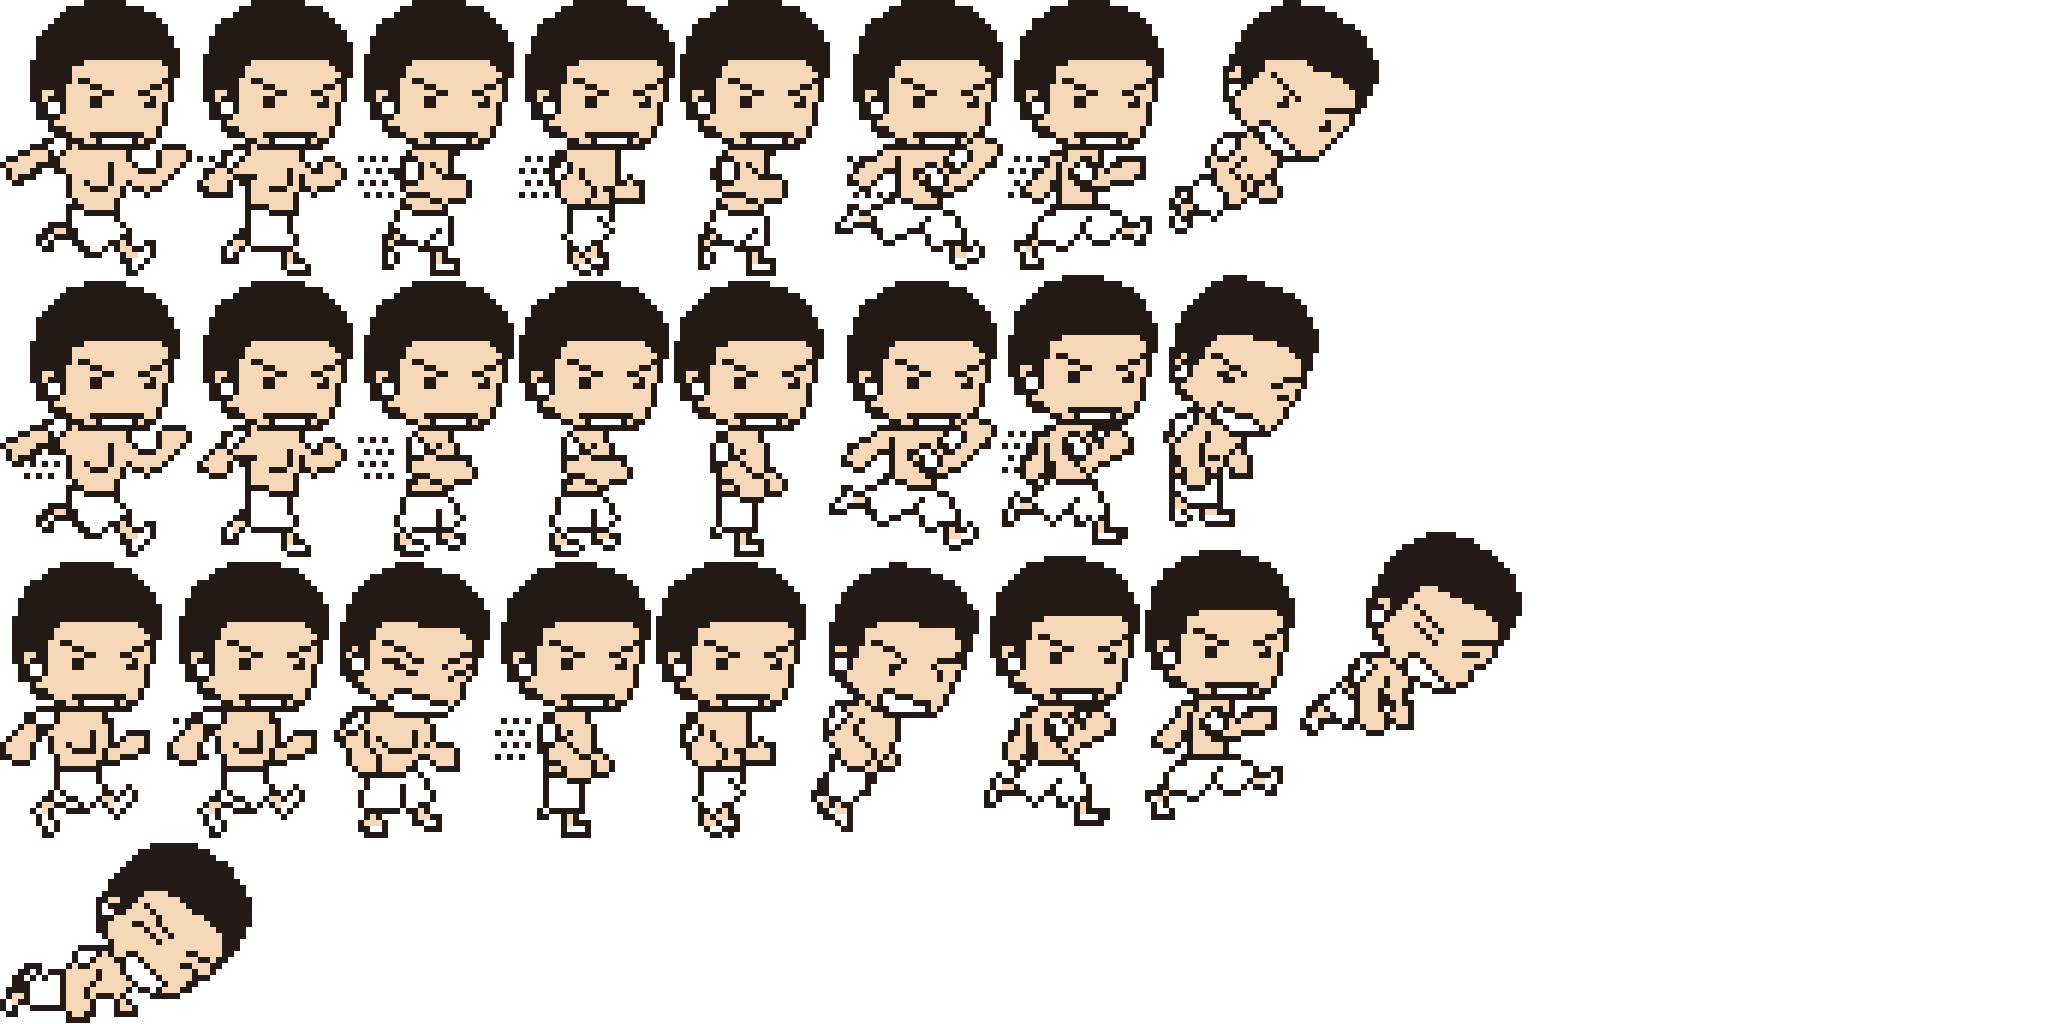
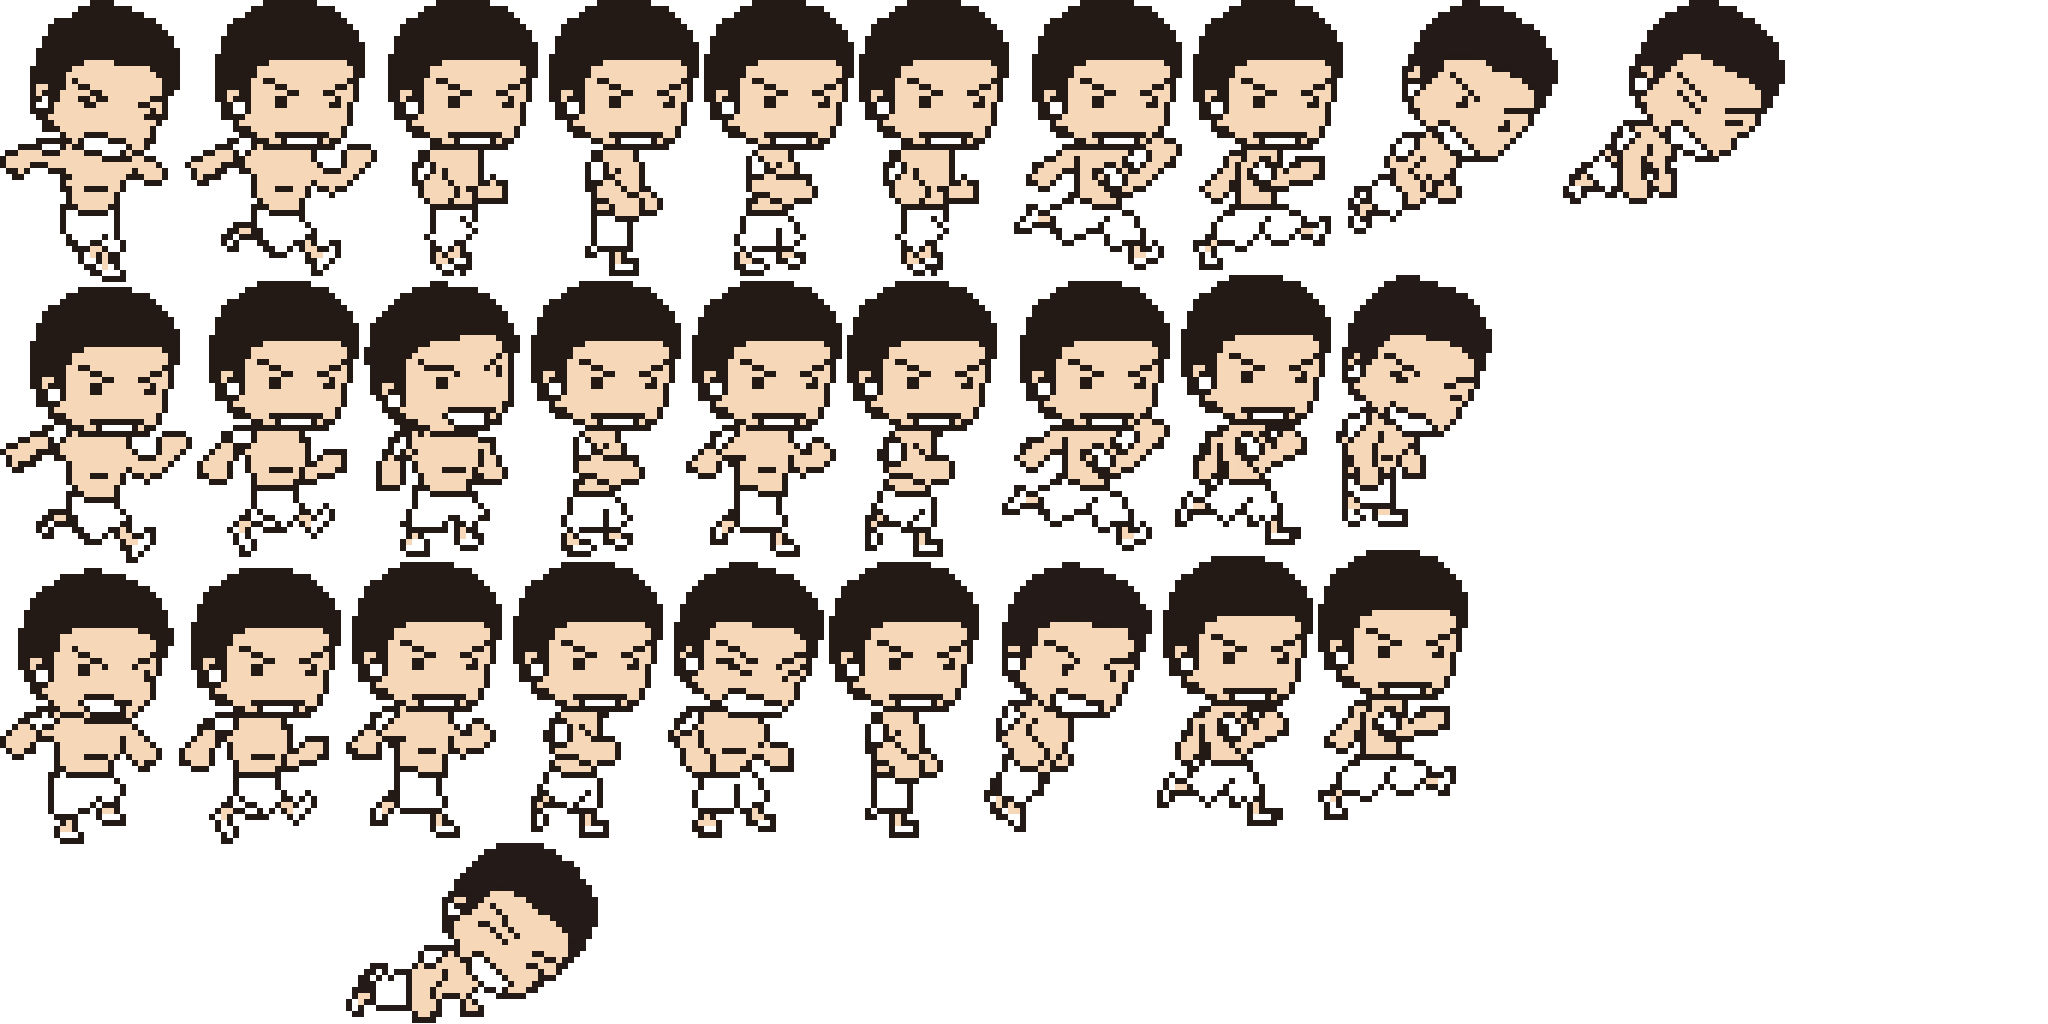
Tweaked level, updated 8-bit time skin.

Changed region(s): [[0.0, 0.0, 0.875, 1.0]]

diff --git a/Clay/Classes/Game/Other/Skin.m b/Clay/Classes/Game/Other/Skin.m
@@ -54,7 +54,9 @@
         [controller addAnimationForSkinFromFile:_filename UsingBaseAnim:@"runningAnim" ForSequence:_running];
         [controller addAnimationForSkinFromFile:_filename UsingBaseAnim:@"turboAnim" ForSequence:_sprinting];
         [controller addAnimationForSkinFromFile:_filename UsingBaseAnim:@"trippedAnim" ForSequence:_tripping];
-        [controller addAnimationForSkinFromFile:_filename UsingBaseAnim:@"hurtAnim" ForSequence:_hurting];        
+        [controller addAnimationForSkinFromFile:_filename UsingBaseAnim:@"hurtAnim" ForSequence:_hurting];
+        [controller addAnimationForSkinFromFile:_filename UsingBaseAnim:@"jumpingAnim" ForSequence:_jumping];
+        [controller addAnimationForSkinFromFile:_filename UsingBaseAnim:@"fallingAnim" ForSequence:_falling];
     }
 }
 
